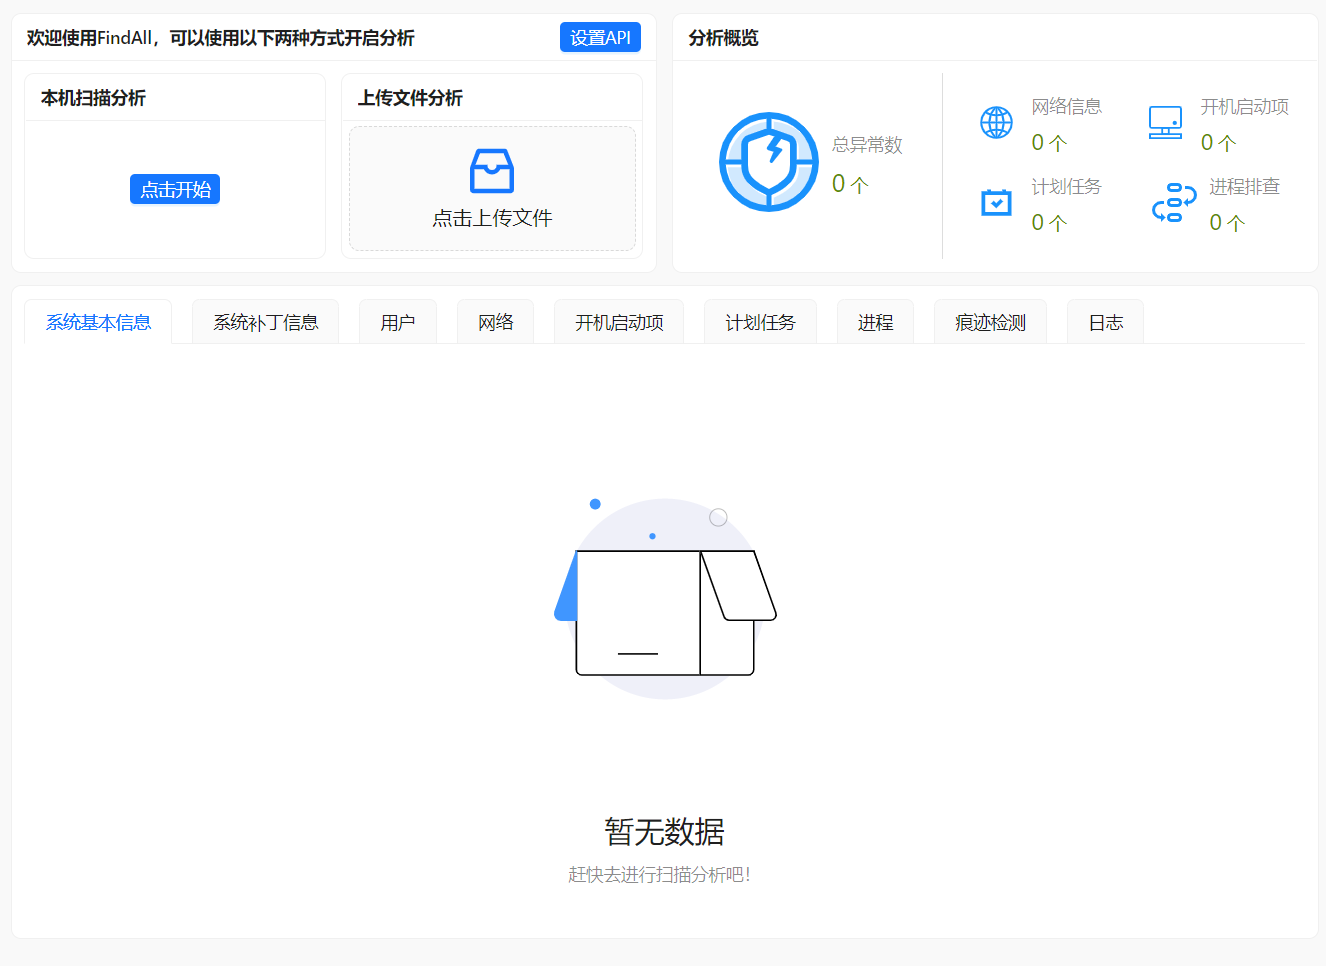
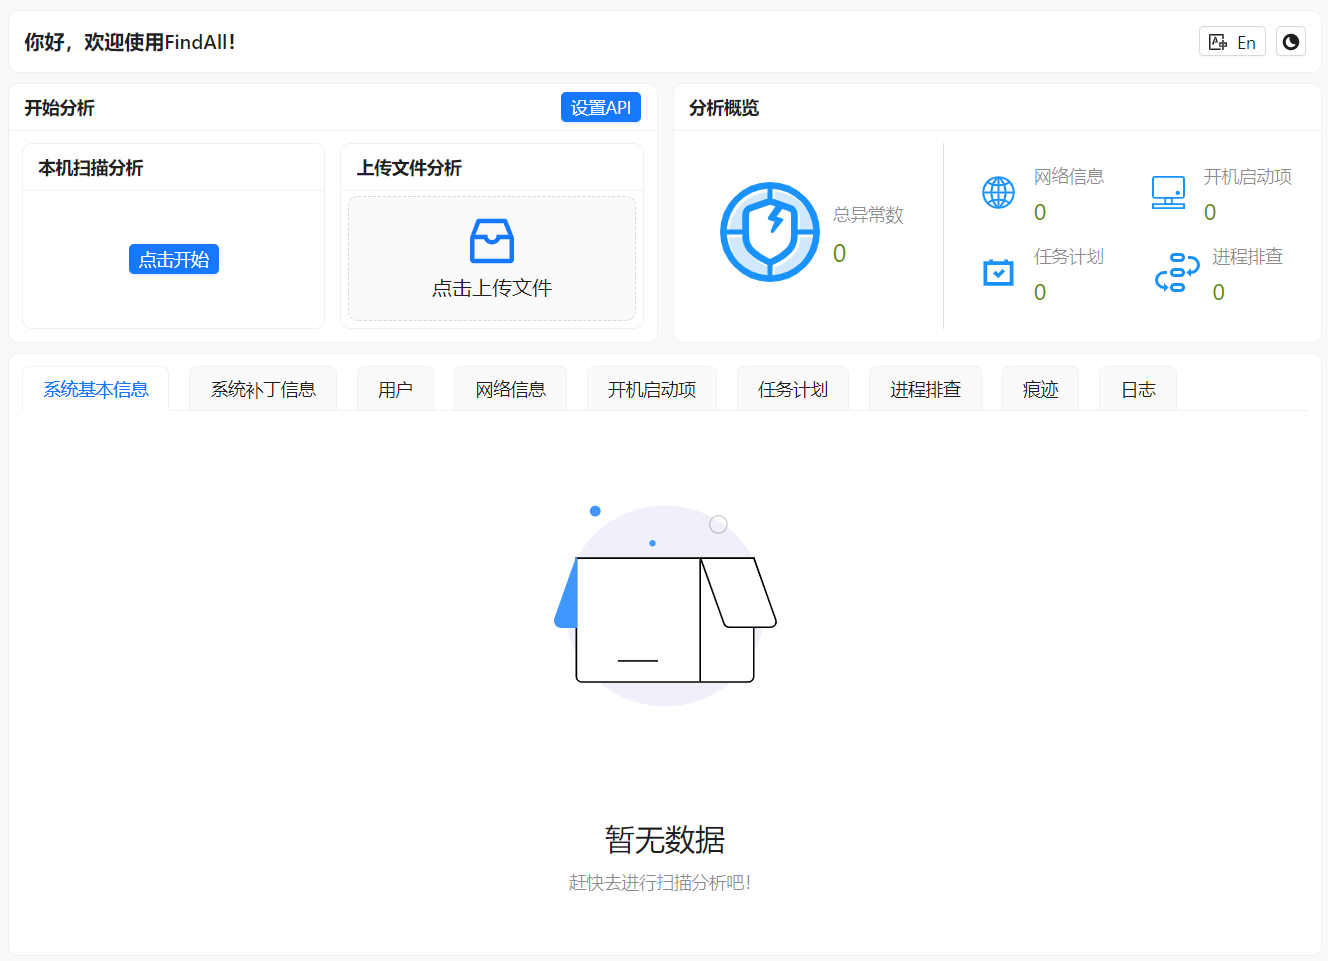
doc: Support en

diff --git a/introduction.md b/introduction.md
@@ -1,49 +1,58 @@
 <h1>🔍 FindAll</h1>
   <p>
-    本工具是专为网络安全蓝队设计的应急响应工具，旨在帮助团队成员有效地应对和分析网络安全威胁。工具集成了先进的信息搜集和自动化分析功能，以提高安全事件应对的效率和准确性。
-    FindAll采用客户端-服务器（CS）架构，特别适用于那些无法直接登录远程主机进行安全检查的场景。在这种情况下，拥有相应权限的运维人员只需在目标主机上运行FindAll的Agent组件来收集必要的数据。
-    随后，将数据下载到本地，供安全专家通过FindAll的直观图形用户界面（GUI）进行深入分析。
-    FindAll的界面设计简洁明了，用户无需深入了解复杂的命令行操作，大大降低了使用门槛。
-    这使得即使是网络安全领域的新手也能够轻松上手，有效地进行数据分析和安全事件排查。此外，通过减少对跳板机或其他潜在风险接入点的依赖，FindAll还提升了整个安全检查过程的安全性和效率，一键分析预览异常情况，快速定位相应的风险项。
+FindAll is a dedicated emergency response tool designed for network security blue teams to help team members respond to and analyze network security threats effectively. It integrates advanced information gathering and automated analysis capabilities to improve the efficiency and accuracy of security incident response.
+
+FindAll adopts a client-server (CS) architecture that is particularly suitable for scenarios where users cannot directly log in to remote hosts for security checks. In such cases, operators with appropriate permissions only need to run FindAll's Agent component on the target hosts to collect necessary data.
+
+The data is then downloaded locally for in-depth analysis by security experts through FindAll's intuitive graphical user interface (GUI). FindAll's interface is clean and straightforward, allowing users without extensive knowledge of complex command lines to get started easily, greatly lowering the barrier to entry.
+
+This enables even beginners in the network security field to easily get started and effectively perform data analysis and security incident investigation. In addition, by reducing reliance on jump servers or other potential risk access points, FindAll also enhances the overall security and efficiency of the security inspection process, providing one-click analysis and preview of anomalies to quickly identify corresponding risks.
   </p>
  
-## 🌟 核心特点
+## 🌟 Key Features
 
-### 📊 综合信息搜集
-- **系统基本信息**: 除了输出系统详细信息以外，还会检查系统配置和补丁，识别可利用的漏洞。
-- **网络信息**: 分析当前网络连接，如果填写了微步API即可轻松识别异常网络，本产品会根据异常网络情况找到对应的进程然后进行分析和识别。
-- **开机启动项**: 审查启动时自动执行的程序。
-- **计划任务**: 检测可能隐藏的恶意计划任务。
-- **进程排查**: 识别和分析运行中的可疑或异常进程，快速定位后门文件。
-- **敏感目录排查**: 检查关键文件和目录的异常变更。
-- **日志排查**: 深入分析系统和应用日志，寻找安全事件的痕迹，会根据日志进行汇总方便人员进行分析。
-- **账户检测**: 识别各个场景下创建的隐藏账户、克隆账户。
+### 📊 Comprehensive Information Gathering
 
-### 🤖 自动化威胁分析(填写微步API后)
-- 自动识别异常IP、进程和文件，显著提高分析效率。
-- 突出显示异常情况，使得团队成员能够集中关注重点进程。
+- **System basics**: Outputs detailed system info and checks config and patches to identify vulnerabilities.
+- **Network info**: Analyzes current network connections. With Threatbook API, easily identifies abnormal networks, locates corresponding processes for analysis.
+- **Startup items**: Examines auto-start programs.
+- **Scheduled tasks**: Detects potentially malicious scheduled tasks.
+- **Process investigation**: Identifies and analyzes suspicious processes to quickly locate backdoors.
+- **Sensitive directory checks**: Checks abnormal changes in critical files and directories.
+- **Log analysis**: Deep log analysis of system and apps to find traces of security events, aggregated for easy analysis.
+- **Account detection**: Identifies hidden and cloned accounts in various scenarios.
 
-### ⚡ 快速异常识别与响应
-- 提供即时的异常检测和响应建议，帮助蓝队迅速应对威胁。
+### 🤖 Automated Threat Analysis (with Threatbook API)
 
-### 🖥 用户友好界面
-- 界面设计简洁直观，适合各水平的蓝队成员。
-- 简洁明了，适合各水平用户，包括网络安全领域新手。
-- 支持一键分析预览异常情况，快速定位风险项。
+- Auto-identifies abnormal IP, processes and files to improve analysis efficiency.
+- Highlights anomalies for focused investigation.
+- Threatbook：https://www.threatbook.cn/next/en/index
 
-## ⚙ 安装与使用
+### ⚡ Rapid Anomaly Detection & Response
 
-### 🏗 架构
-FindAll采用客户端-服务器（CS）架构，可以在本地进行一键扫描，也可以使用Agent进行扫描然后录入扫描结果，适用于无法直接登录远程主机进行安全检查的场景。
+- Provides real-time detection and response suggestions to enable swift response.
 
-### 🛠 安装步骤
-1. **下载安装包一键安装即可**：
-2. **tips**
-   - 远程扫描：Agent位于`C:\Program Files\FindAll\resources\buildResources`，结果位于`C:\\Findall\\result.hb`
-   - 本地扫描：一键扫描即可
+### 🖥 User-Friendly Interface
 
+- Clean and intuitive interface suitable for all skill levels.
+- Concise and clear, suitable for beginners.
+- One-click previews of anomalies to quickly identify risks.
 
-### 💻 系统支持
-- 客户端支持Windows 10及以上版本。
-- 服务器支持Windows Server 2008及以上版本。
-- 其他系统需自行测试兼容性。
+## ⚙ Installation & Usage
+
+### 🏗 Architecture
+
+Adopts client-server architecture for one-click local scans or remote scanning via Agent, suitable when direct remote login is not possible.
+
+### 🛠 Installation Steps
+
+1. **Download and install with one click**：https://github.com/FindAllTeam/FindAll/releases
+2. **Tips**
+   - Remote scanning: Agent is located at `C:\Program Files\FindAll\resources\buildResources`, results are saved at `C:\\Findall\\result.hb`
+   - Local scanning: Just one-click scan
+
+### 💻 System Support
+
+- Client supports supports Windows 10 and above, as well as macOS.
+- Server supports Windows Server 2008 and above
+- Other systems need to be tested for compatibility

diff --git a/zh/introduction.md b/zh/introduction.md
@@ -1,0 +1,49 @@
+<h1>🔍 FindAll</h1>
+  <p>
+    本工具是专为网络安全蓝队设计的应急响应工具，旨在帮助团队成员有效地应对和分析网络安全威胁。工具集成了先进的信息搜集和自动化分析功能，以提高安全事件应对的效率和准确性。
+    FindAll采用客户端-服务器（CS）架构，特别适用于那些无法直接登录远程主机进行安全检查的场景。在这种情况下，拥有相应权限的运维人员只需在目标主机上运行FindAll的Agent组件来收集必要的数据。
+    随后，将数据下载到本地，供安全专家通过FindAll的直观图形用户界面（GUI）进行深入分析。
+    FindAll的界面设计简洁明了，用户无需深入了解复杂的命令行操作，大大降低了使用门槛。
+    这使得即使是网络安全领域的新手也能够轻松上手，有效地进行数据分析和安全事件排查。此外，通过减少对跳板机或其他潜在风险接入点的依赖，FindAll还提升了整个安全检查过程的安全性和效率，一键分析预览异常情况，快速定位相应的风险项。
+  </p>
+ 
+## 🌟 核心特点
+
+### 📊 综合信息搜集
+- **系统基本信息**: 除了输出系统详细信息以外，还会检查系统配置和补丁，识别可利用的漏洞。
+- **网络信息**: 分析当前网络连接，如果填写了微步API即可轻松识别异常网络，本产品会根据异常网络情况找到对应的进程然后进行分析和识别。
+- **开机启动项**: 审查启动时自动执行的程序。
+- **计划任务**: 检测可能隐藏的恶意计划任务。
+- **进程排查**: 识别和分析运行中的可疑或异常进程，快速定位后门文件。
+- **敏感目录排查**: 检查关键文件和目录的异常变更。
+- **日志排查**: 深入分析系统和应用日志，寻找安全事件的痕迹，会根据日志进行汇总方便人员进行分析。
+- **账户检测**: 识别各个场景下创建的隐藏账户、克隆账户。
+
+### 🤖 自动化威胁分析(填写微步API后)
+- 自动识别异常IP、进程和文件，显著提高分析效率。
+- 突出显示异常情况，使得团队成员能够集中关注重点进程。
+
+### ⚡ 快速异常识别与响应
+- 提供即时的异常检测和响应建议，帮助蓝队迅速应对威胁。
+
+### 🖥 用户友好界面
+- 界面设计简洁直观，适合各水平的蓝队成员。
+- 简洁明了，适合各水平用户，包括网络安全领域新手。
+- 支持一键分析预览异常情况，快速定位风险项。
+
+## ⚙ 安装与使用
+
+### 🏗 架构
+FindAll采用客户端-服务器（CS）架构，可以在本地进行一键扫描，也可以使用Agent进行扫描然后录入扫描结果，适用于无法直接登录远程主机进行安全检查的场景。
+
+### 🛠 安装步骤
+1. **下载安装包一键安装即可**：
+2. **tips**
+   - 远程扫描：Agent位于`C:\Program Files\FindAll\resources\buildResources`，结果位于`C:\\Findall\\result.hb`
+   - 本地扫描：一键扫描即可
+
+
+### 💻 系统支持
+- 客户端支持Windows 10及以上版本，还有macOS系统。
+- 服务器支持Windows Server 2008及以上版本。
+- 其他系统需自行测试兼容性。

diff --git a/index.md b/index.md
@@ -4,49 +4,49 @@ layout: home
 
 hero:
   name: "FindAll"
-  text: <span style="font-size:30px"> 自动化分析网络安全应急响应工具</span>
-  tagline: 为安全从业者提供极速分析
+  text: <span style="font-size:30px"> Automated analysis of network security emergency response tools.</span>
+  tagline: Providing rapid analysis for security practitioners.
   image:
     src: /logo.svg
     alt: logo
   actions:
     - theme: brand
-      text: 下载使用
+      text: Download
       link: https://github.com/FindAllTeam/FindAll/releases/download/v1.3.0/FindAll-1.3.0.zip
     - theme: alt
-      text: 版本记录
+      text: Releases
       link: https://github.com/FindAllTeam/FindAll/releases
 
 features:
   - icon: 💡
-    title: 操作方便
-    details: 一键安装分析
+    title: Ease of operation
+    details: One-click installation for analysis
   - icon: ⚡
-    title: 快速识别
-    details: 提供即时的异常检测和响应建议
+    title: Rapid identification
+    details: Providing real-time anomaly detection and response suggestions
   - icon: 🛠
-    title: 自动化威胁分析
-    details: 威胁情况自动化分析
+    title: Automated threat analysis
+    details: Automated analysis of threat situations
   - icon: 📦
-    title: 综合信息搜集
-    details: 可对系统进行全面的信息搜集
+    title: Comprehensive information gathering
+    details: Capable of comprehensive information gathering on the system
   - icon: 🔑
-    title: 提供API设置
-    details: 可提供额外的API设置入口，方便与服务端联动
+    title: Offer API configuration
+    details: Can provide additional API configuration entry points for easy integration with the server
   - icon: 🎨
-    title: 用户友好界面
-    details: 设计简洁直观，适合各水平的蓝队成员使用
+    title: User-friendly interface
+    details: Designed to be simple and intuitive, suitable for blue team members of all levels to use.
 ---
 
 <div class="home-img-content">
   <div class="home-img-outer">
-    <img class="home-img" src="/preview1.jpg" />
+    <img class="home-img" src="/preview1_en.jpg" />
   </div>
   <div class="home-img-outer">
-    <img class="home-img" src="/preview2.jpg" />
+    <img class="home-img" src="/preview2_en.jpg" />
   </div>
   <div class="home-img-outer">
-    <img class="home-img" src="/preview3.jpg" />
+    <img class="home-img" src="/preview3_en.jpg" />
   </div>
 </div>
 

diff --git a/zh/index.md b/zh/index.md
@@ -1,0 +1,53 @@
+---
+# https://vitepress.dev/reference/default-theme-home-page
+layout: home
+
+hero:
+  name: "FindAll"
+  text: <span style="font-size:30px"> 自动化分析网络安全应急响应工具</span>
+  tagline: 为安全从业者提供极速分析
+  image:
+    src: /logo.svg
+    alt: logo
+  actions:
+    - theme: brand
+      text: 下载使用
+      link: https://github.com/FindAllTeam/FindAll/releases/download/v1.3.0/FindAll-1.3.0.zip
+    - theme: alt
+      text: 版本记录
+      link: https://github.com/FindAllTeam/FindAll/releases
+
+features:
+  - icon: 💡
+    title: 操作方便
+    details: 一键安装分析
+  - icon: ⚡
+    title: 快速识别
+    details: 提供即时的异常检测和响应建议
+  - icon: 🛠
+    title: 自动化威胁分析
+    details: 威胁情况自动化分析
+  - icon: 📦
+    title: 综合信息搜集
+    details: 可对系统进行全面的信息搜集
+  - icon: 🔑
+    title: 提供API设置
+    details: 可提供额外的API设置入口，方便与服务端联动
+  - icon: 🎨
+    title: 用户友好界面
+    details: 设计简洁直观，适合各水平的蓝队成员使用
+---
+
+<div class="home-img-content">
+  <div class="home-img-outer">
+    <img class="home-img" src="/preview1.jpg" />
+  </div>
+  <div class="home-img-outer">
+    <img class="home-img" src="/preview2.jpg" />
+  </div>
+  <div class="home-img-outer">
+    <img class="home-img" src="/preview3.jpg" />
+  </div>
+</div>
+
+
